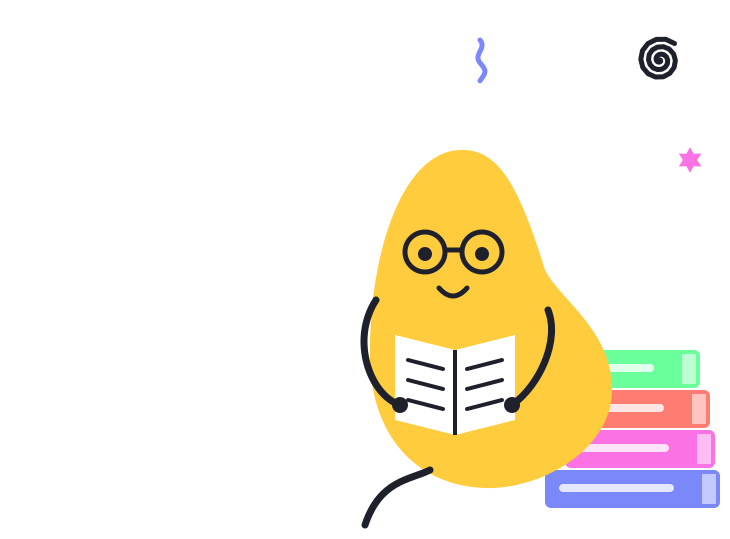
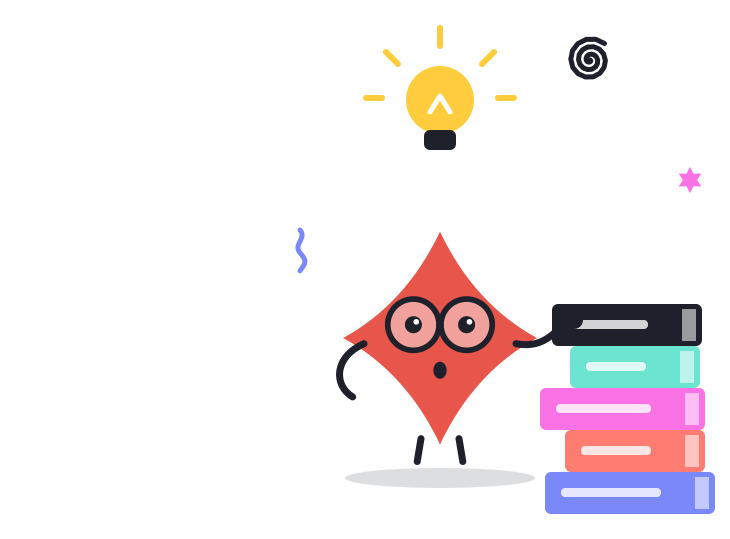
Redo weekly theme art for broader theme set with distinct characters

diff --git a/docs/design/theme-art.md b/docs/design/theme-art.md
@@ -1,10 +1,10 @@
 # Weekly theme art
 
-Illustrations for the eight new weekly challenge themes (sleep, hydration, mindfulness, outdoors, kindness, learning, creativity, cooking), in the style of the Fitness "This Week's Challenge" mascot art.
+Illustrations for the broad weekly challenge themes (outdoors, food, arts, games, music, learning, volunteering, wellness), in the family of the Fitness "This Week's Challenge" mascot art and the admin avatar blobs.
 
-- Figma (vector frames): https://www.figma.com/design/FvmgH1dGuUqRonq9YgHtdH (file "DIP Weekly Theme Art", in the author's personal team). It was built from the authored SVGs and omits a few small spiral accents; the SVGs in the repo are the source of truth.
+- Figma (vector frames): https://www.figma.com/design/FvmgH1dGuUqRonq9YgHtdH (file "DIP Weekly Theme Art", in the author's personal team). The SVGs in the repo are the source of truth; the Figma frames were built from them (spiral accents are simplified to rings there).
 - Web: `apps/admin/public/img/themes/<key>.svg` and `<key>.png` (730x539, transparent, same slot as `fitness.png`). Backgrounds per theme: `apps/admin/public/img/themes/ACCENTS.md`.
-- iOS: `Home.xcassets/Mascot<Key>.imageset` (for example `MascotSleep`), same Contents.json as `Mascot` (Fitness).
-- Style: flat blob character, black limb strokes, simple faces, white clouds plus confetti, brand palette plus the Fitness blue, green and coral. Bottom-left (title and participant pill) is kept clear.
-- Review: no Figma exists for this art, so a design-crit round was run on a 9-up contact sheet (consistent style, readable at 400px wide, title area clear, brand palette only); verdict PASS after one revision round. Extra colours beyond the tokens: deep green #2FBF71 (outdoors tree), greys #404040/#606060 (pot, as the barbell), #E8FAFF (water drop), #FFE9B8 (palette).
-- Wiring the art into `DIPThemeCatalog` and the admin `themes.ts` is done separately by the catalog work; this change adds assets only.
+- iOS: `Home.xcassets/Mascot<Key>.imageset` (for example `MascotFood`), same Contents.json as `Mascot` (Fitness).
+- Style: each theme has its own character (silhouette, size, body colour, face, accessory, pose) taken from the avatar family: pear/teardrop, cloud, round, house, ghost, diamond, spiky and scalloped bodies with dot eyes and simple mouths; group scenes for games and volunteering. Flat shapes, black limb strokes where the Fitness art has them, white clouds plus confetti. Bottom-left (title and participant pill) is kept clear.
+- Review: no Figma exists for this art, so design-crit rounds were run on a 9-up contact sheet (characters clearly different, same family, readable at 400px wide, title area clear, brand palette only) until PASS. Colours beyond the tokens: the avatar tones (lime #DDFF4D, orange #FFB014, teal #6BE5D0, violet #9B4DFF, sky #4DBFFF, rose #FFB8C8), deep green #2FBF71 (leaf), greys and cream #FFE9B8 (palette).
+- Wiring the art into `DIPThemeCatalog` and the admin `themes.ts` is separate; this change adds assets only. The first set (sleep, hydration, mindfulness, kindness, creativity, cooking) was replaced by this broader set.

diff --git a/apps/admin/public/img/themes/ACCENTS.md b/apps/admin/public/img/themes/ACCENTS.md
@@ -1,18 +1,18 @@
 # Weekly theme accent backgrounds
 
 Art files are transparent (730x539, same slot as `fitness.png`); the card draws the solid accent behind them.
-Use these hex values as each theme's `accent`. The title sits bottom-left: use ink text on yellow, green and blue backgrounds and white on ink, purple and pink; check coral (kindness) when wiring.
+Use these hex values as each theme's `accent`. The title sits bottom-left: use ink text on yellow, green, blue, teal and coral backgrounds and white on ink and purple; check contrast per accent when wiring.
 
-| key | background hex | note |
-| --- | --- | --- |
-| fitness | #FB72E4 | existing (`challengeAccent` pink) |
-| sleep | #1E212B | ink |
-| hydration | #7B88FA | purple |
-| mindfulness | #FFCC3E | yellow |
-| outdoors | #6BFF9B | green from the Fitness confetti |
-| kindness | #FF7C73 | coral from the Fitness headband |
-| learning | #66D9FF | blue from the Fitness blob |
-| creativity | #FB72E4 | pink (same as Fitness, never adjacent in picker order) |
-| cooking | #FFCC3E | yellow (same as Mindfulness, not adjacent) |
+| key | display | background hex | colour |
+| --- | --- | --- | --- |
+| fitness | Fitness | #FB72E4 | pink (existing) |
+| outdoors | Outdoors | #6BE5D0 | teal |
+| food | Food & Drink | #FF7C73 | coral |
+| arts | Arts & Crafts | #7B88FA | purple |
+| games | Games | #FFCC3E | yellow |
+| music | Music | #66D9FF | blue |
+| learning | Learning | #6BFF9B | green |
+| volunteering | Volunteering | #1E212B | ink |
+| wellness | Wellness | #FF7C73 | coral (not adjacent to Food in picker order) |
 
-iOS image sets (Home.xcassets): `Mascot` is Fitness; the new ones are `MascotSleep`, `MascotHydration`, `MascotMindfulness`, `MascotOutdoors`, `MascotKindness`, `MascotLearning`, `MascotCreativity`, `MascotCooking`.
+iOS image sets (Home.xcassets): `Mascot` is Fitness; new ones are `MascotOutdoors`, `MascotFood`, `MascotArts`, `MascotGames`, `MascotMusic`, `MascotLearning`, `MascotVolunteering`, `MascotWellness`.

diff --git a/docs/sessions/SESSION_sandervonk_2026-11-16_003.md b/docs/sessions/SESSION_sandervonk_2026-11-16_003.md
@@ -1,0 +1,30 @@
+# Work session
+
+User: sandervonk
+Date: 2026-11-16
+Workstream: theme-art-v2
+Agent: claude
+Status: completed
+
+## Summary
+
+Redid the weekly theme art for the broader theme set (outdoors, food, arts, games, music, learning, volunteering, wellness) with a distinct character per theme, and removed the first set.
+
+## Changes
+
+- Added apps/admin/public/img/themes/{outdoors,food,arts,games,music,learning,volunteering,wellness}.svg and .png (730x539, transparent)
+- Removed sleep, hydration, mindfulness, kindness, creativity, cooking art and their MascotSleep/Hydration/Mindfulness/Kindness/Creativity/Cooking image sets; fitness kept
+- Added Home.xcassets Mascot<Key>.imageset x8; rewrote ACCENTS.md and docs/design/theme-art.md
+- Figma file https://www.figma.com/design/FvmgH1dGuUqRonq9YgHtdH updated with the new frames
+
+## Validation
+
+SVGs rendered with rsvg-convert (all under 7KB); contact sheet reviewed by a design auditor subagent over three rounds (FAIL, FAIL, PASS). No code changed, no test suites run.
+
+## Decisions
+
+Characters taken from the admin avatar shapes (cloud, drop, round, house, ghost, diamond, spiky, scallop). Wellness uses the avatar lime background so every theme has a distinct colour. Art stays transparent over the card accent.
+
+## Handoff
+
+Catalog work: use ACCENTS.md hex values and Mascot<Key> names; check title contrast on teal, coral and lime accents.
